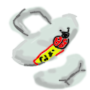
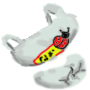
dziala fajnie

diff --git a/Polawiacz_gra/States/GameState2.cs b/Polawiacz_gra/States/GameState2.cs
@@ -25,11 +25,12 @@ namespace Polawiacz_gra.States
 
         MouseState mState;
         bool mReleased = true;
-        int trash = 10;
+        int trash = 0;
         double timer = 0;
         int[] numercelu = new int[10];
+        int[] wybortargetu = new int[10];
 
-        int losowanie = 0;
+        int losowanie = 1;
         float wynik;
 
 
@@ -79,7 +80,7 @@ namespace Polawiacz_gra.States
                 for (int i = 0; i < 10; i++)
                 {
                     numercelu[i] = 1;
-                    losowanie = 1;
+                    
                 }
             }
 
@@ -101,6 +102,8 @@ namespace Polawiacz_gra.States
 
             pozycjaKursora = new Vector2(mState.X, mState.Y);
 
+            //petla sie wykonuje tylko raz na poczatku gry
+
             if (losowanie == 1)
             {
                 Random rand = new Random();
@@ -110,10 +113,13 @@ namespace Polawiacz_gra.States
                 {
                     pozycja[i].X = rand.Next(45, 1280 - targetRadius);
                     pozycja[i].Y = rand.Next(45, 900 - targetRadius);
+                    wybortargetu[i] = rand.Next(0, 3);
+                    if (wybortargetu[i] == 0 || wybortargetu[i] == 1)
+                        trash++;
                 }
                 losowanie = 0;
-
             }
+            
 
             if (mState.LeftButton == ButtonState.Pressed && mReleased == true)
             {
@@ -124,7 +130,12 @@ namespace Polawiacz_gra.States
                     odleglosc[i] = Vector2.Distance(pozycja[i], mState.Position.ToVector2());
                     if (odleglosc[i] < targetRadius && trash > 0)
                     {
-                        trash--;
+                        //wybieranie czegos innego niz smieci nie odejmuje ilosci smieci
+                        if (wybortargetu[i] == 0 || wybortargetu[i] == 1)
+                        { 
+                            trash--; 
+                        }
+                            
                         numercelu[i] = 0;
                     }
                 }
@@ -151,21 +162,28 @@ namespace Polawiacz_gra.States
         }
         public override void Draw(GameTime gameTime, SpriteBatch spriteBatch)
         {
-            //spriteBatch.Begin();
+            
             //jesli kliknalem na obrazek znika
-
-
-            //spriteBatch.DrawString(_content.Load<SpriteFont>("Fonts/Font"), "Czas: ", new Vector2(10, 30), Color.Black);
-            //spriteBatch.Draw(_content.Load<Texture2D>("target2"), new Vector2(600, 600), Color.White);
 
             for (int i = 0; i < 10; i++)
             {
                 if (numercelu[i] == 1)
                 {
                    
-                        //spriteBatch.Draw(_content.Load<Texture2D>("target"), new Vector2(pozycja[i].X - targetRadius, pozycja[i].Y - targetRadius), Color.White);
-                    
-                        spriteBatch.Draw(_content.Load<Texture2D>("target2"), new Vector2(pozycja[i].X - targetRadius, pozycja[i].Y - targetRadius), Color.White);
+                   switch (wybortargetu[i])
+                    {
+                            case 0:
+                            spriteBatch.Draw(_content.Load<Texture2D>("target"), new Vector2(pozycja[i].X - targetRadius, pozycja[i].Y - targetRadius), Color.White);
+                            break;
+                            case 1:
+                            spriteBatch.Draw(_content.Load<Texture2D>("target2"), new Vector2(pozycja[i].X - targetRadius, pozycja[i].Y - targetRadius), Color.White);
+                            break;
+                            case 2:
+                            spriteBatch.Draw(_content.Load<Texture2D>("target3"), new Vector2(pozycja[i].X - targetRadius, pozycja[i].Y - targetRadius), Color.White);
+                            break;
+                            
+                    }
+                        
                 }
             }
 
@@ -184,11 +202,6 @@ namespace Polawiacz_gra.States
                 foreach (var component in _components)
                     component.Draw(gameTime, spriteBatch);
             }
-
-
-
-
-            //spriteBatch.End();
 
         }
 
